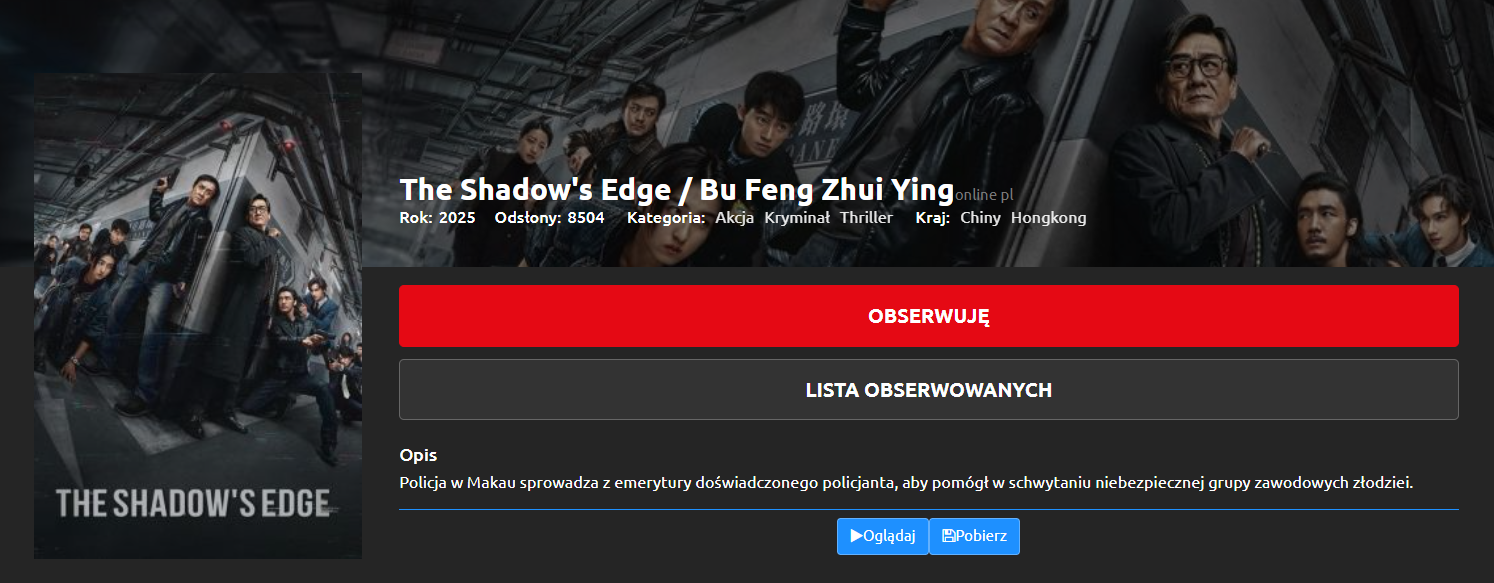
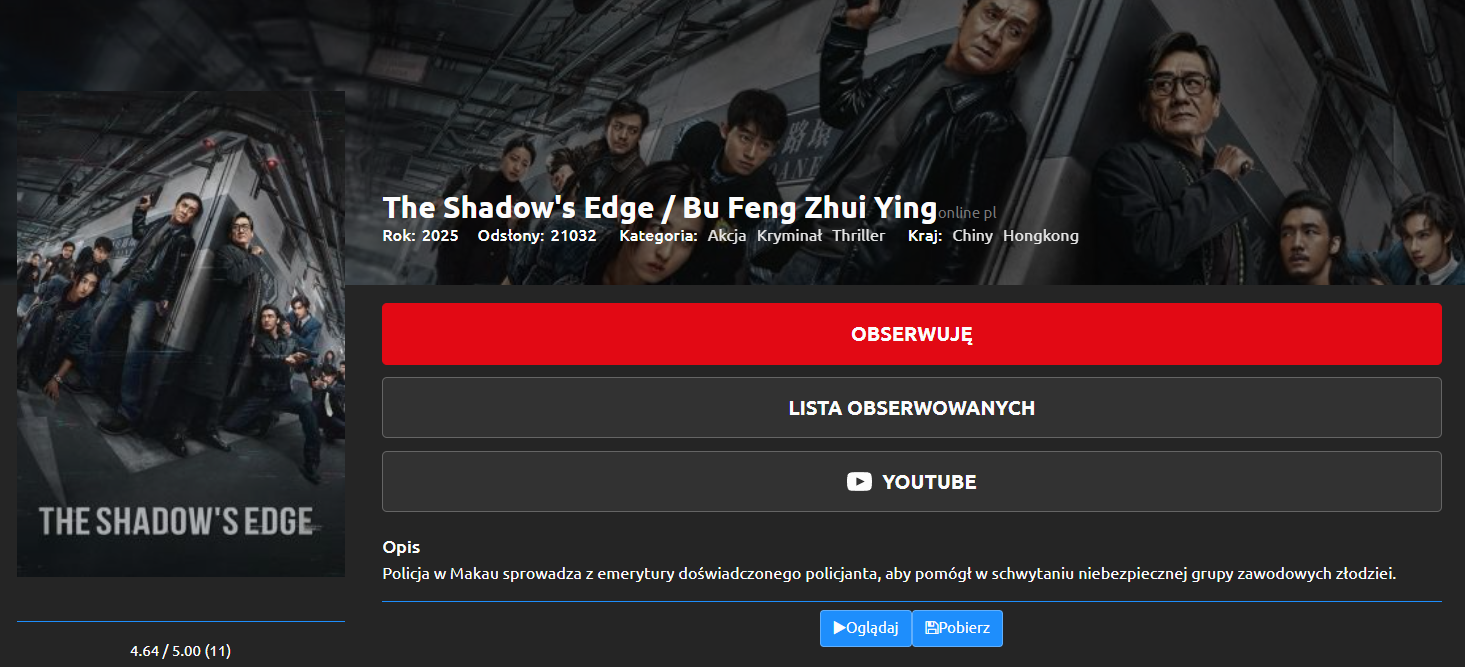
Docs: Update README with YouTube integration details and screenshots

diff --git a/README.md b/README.md
@@ -20,6 +20,7 @@ To rozszerzenie ściśle współpracuje z aplikacją na TV. Dzięki wykorzystani
 
 * **DOM Injection:** Automatycznie wstrzykuje przyciski interfejsu (*Obserwuj*, *Lista*) w strukturę strony, używając `MutationObserver` (działa nawet przy dynamicznym ładowaniu treści).
 * **Smart Scraping:** Pobiera metadane filmu (tytuł, rok, ocena, plakat, opis) bezpośrednio ze strony, aby wyświetlić je ładnie w aplikacji TV.
+* **Integracja z YouTube:** Wyszukuje i odtwarza zwiastun filmu bezpośrednio w oknie pop-up, wykorzystując **YouTube Data API v3**. Inteligentnie dobiera tytuł (pomijając polskie tłumaczenia) dla lepszych wyników.
 * **Status Oglądania:** Przycisk zmienia kolor i status (*Obserwuj* / *Obserwuję*) w zależności od tego, czy film jest już w Twojej bazie.
 * **Bezpieczna Architektura:** Wykorzystuje lokalne biblioteki Firebase (zgodność z CSP i Manifest V3) oraz izolowany kontekst skryptów dla bezpieczeństwa kluczy API.
 * **Podgląd Listy:** Wbudowany modal pozwala podejrzeć i zarządzać swoją listą obserwowanych bez wychodzenia ze strony filmu.
@@ -53,10 +54,10 @@ Ze względów bezpieczeństwa plik z kluczami API nie jest dołączony do repozy
 ```javascript
 export const firebaseConfig = {
     apiKey: "TWOJE_API_KEY",
-    authDomain: "twoj-projekt.firebaseapp.com",
-    databaseURL: "[https://twoj-projekt-default-rtdb.europe-west1.firebasedatabase.app](https://twoj-projekt-default-rtdb.europe-west1.firebasedatabase.app)",
-    projectId: "twoj-projekt",
-    storageBucket: "twoj-projekt.appspot.com",
+    authDomain: "TWÓJ_PROJEKT.firebaseapp.com",
+    databaseURL: "LINK_DO_BAZY_DANYCH" (np. "https://TWÓJ_PROJEKT-default-rtdb.europe-west1.firebasedatabase.app"),
+    projectId: "TWÓJ_PROJEKT",
+    storageBucket: "TWÓJ_PROJEKT.appspot.com",
     messagingSenderId: "NUMER",
     appId: "APP_ID",
     measurementId: "G-XXXXXX"
@@ -64,6 +65,8 @@ export const firebaseConfig = {
 
 export const AUTO_LOGIN_EMAIL = "twoj_email@example.com";
 export const AUTO_LOGIN_PASS = "twoje_haslo";
+
+export const YOUTUBE_API_KEY = "TWOJE_YT_API_KEY";
 ```
 
 ## 📄 Licencja
